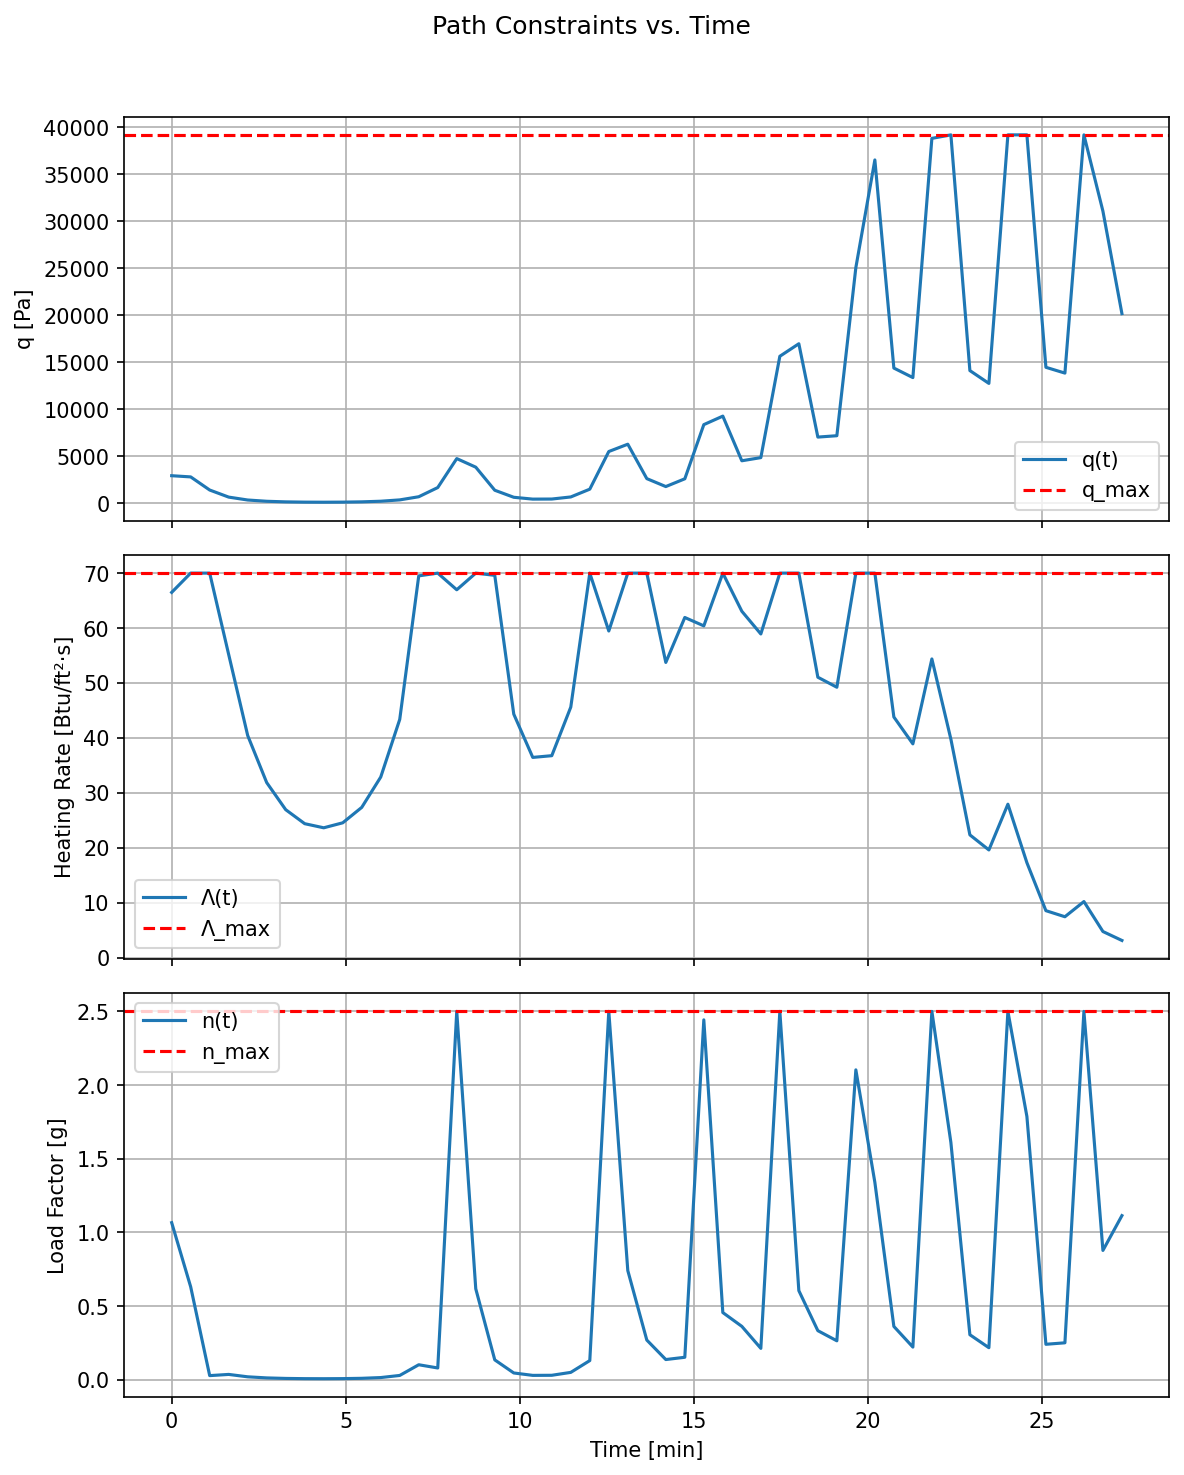
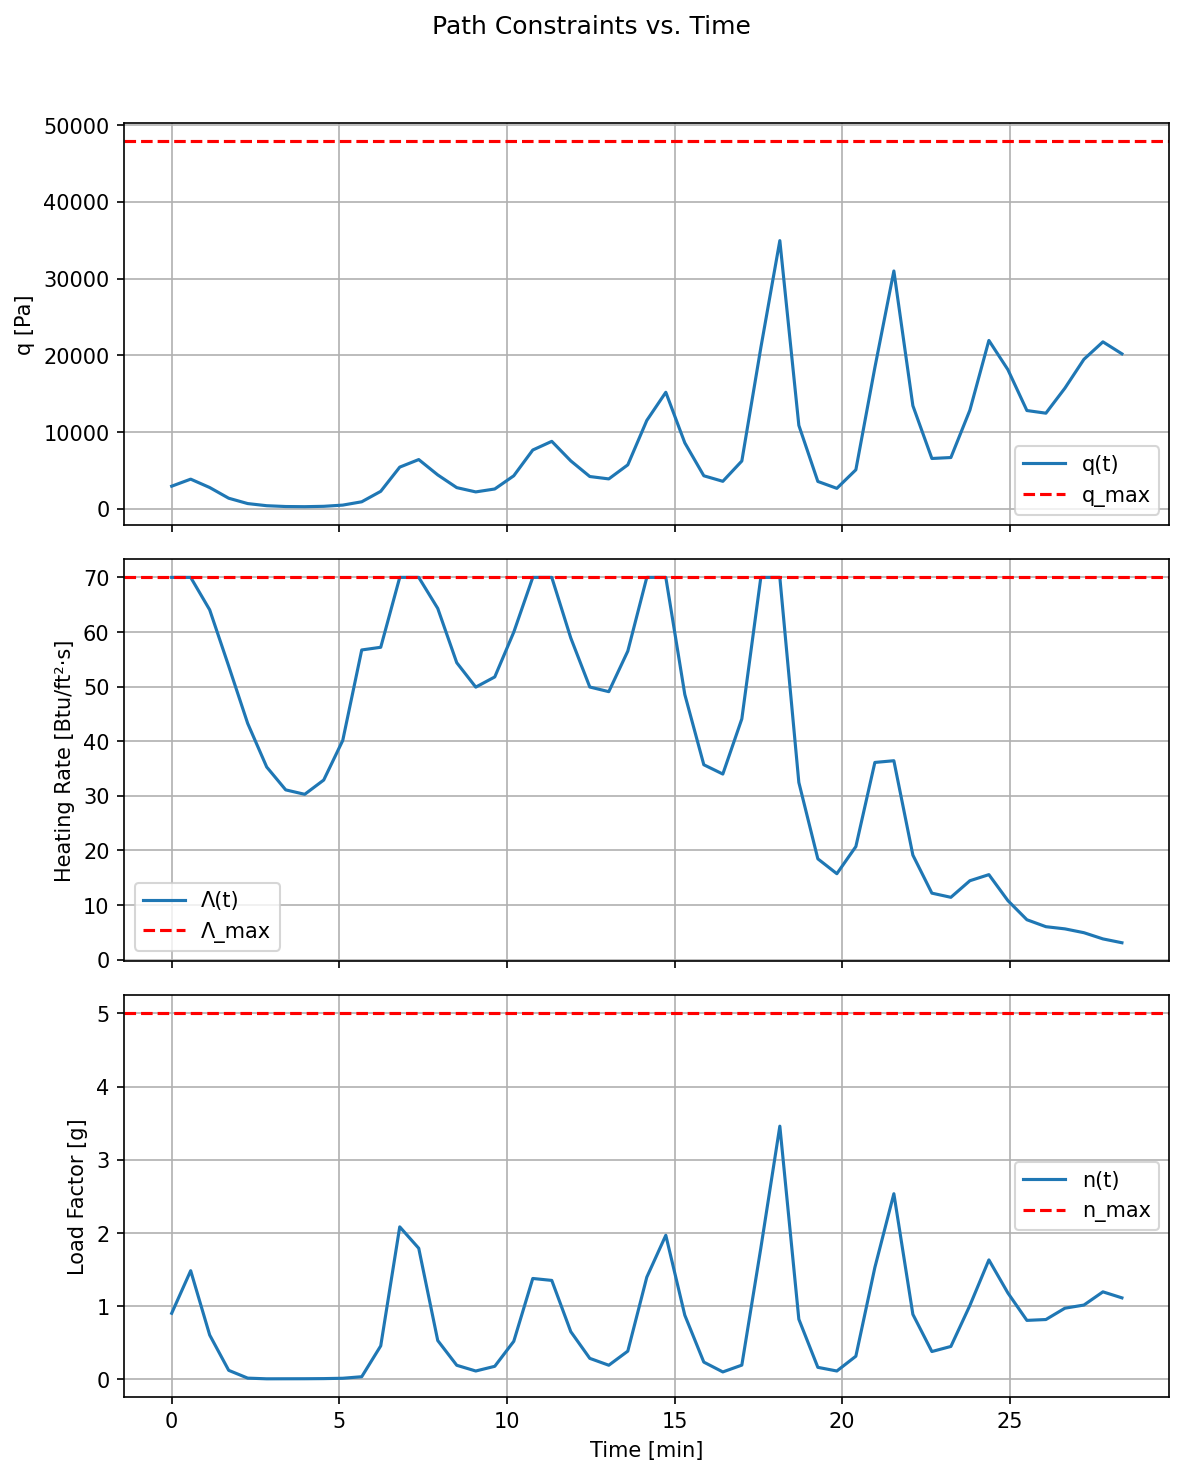
Checkpoint before assistant change: Refine the flight path by adjusting its shape and making calculations smoother
Increase the number of shooting intervals, modify final angles and initial angles, and update the stored data.

Replit-Commit-Author: Assistant

diff --git a/nominal_ocp.py b/nominal_ocp.py
@@ -39,7 +39,7 @@ def d_state(x_nd):
 
 
 # === 2. Discretisation parameters =======================================
-N_ocp = 50  # number of shooting intervals
+N_ocp = 100  # number of shooting intervals
 K_RUNG = 4  # RK4 sub-steps per interval
 
 
@@ -79,13 +79,13 @@ class NominalOCP:
         #    (fill “free” entries in xf_mean with x0 values for the guess)
         xf_full = x0.copy()
         xf_full[0] = xf_mean[0]  # rf -> given
+        xf_full[1] = xf_mean[1]  # θf -> given
+        xf_full[2] = xf_mean[2]  # φf -> given
         xf_full[3] = xf_mean[3]  # vf -> given
         xf_full[5] = xf_mean[5]  # γf -> given
 
         # now override the “free” entries with your specified endpoints:
-        xf_full[1] = 85.0 * np.pi / 180  # θ final = +85 deg
-        xf_full[2] = -30.0 * np.pi / 180  # φ final = -30 deg
-        xf_full[4] = -80.0 * np.pi / 180  # ψ final = -80 deg
+        xf_full[4] = -45.0 * np.pi / 180  # ψ final = -45 deg
 
         x0_nd = nd_state(x0)
         xf_nd = nd_state(xf_full)

diff --git a/scenario.py b/scenario.py
@@ -22,8 +22,8 @@ x0_mean = np.array([
 hT = 80_000 * ft2m  # 24 384 m
 vT = 2_500 * ft2m  # 762 m/s
 γT = -5.0 * deg2rad  # −0.08727 rad
-θT = 80.0 * deg2rad
-φT = -30.0 * deg2rad
+θT = 60.0 * deg2rad
+φT = -20.0 * deg2rad
 
 xf_mean = np.array([
     R_E + hT,
